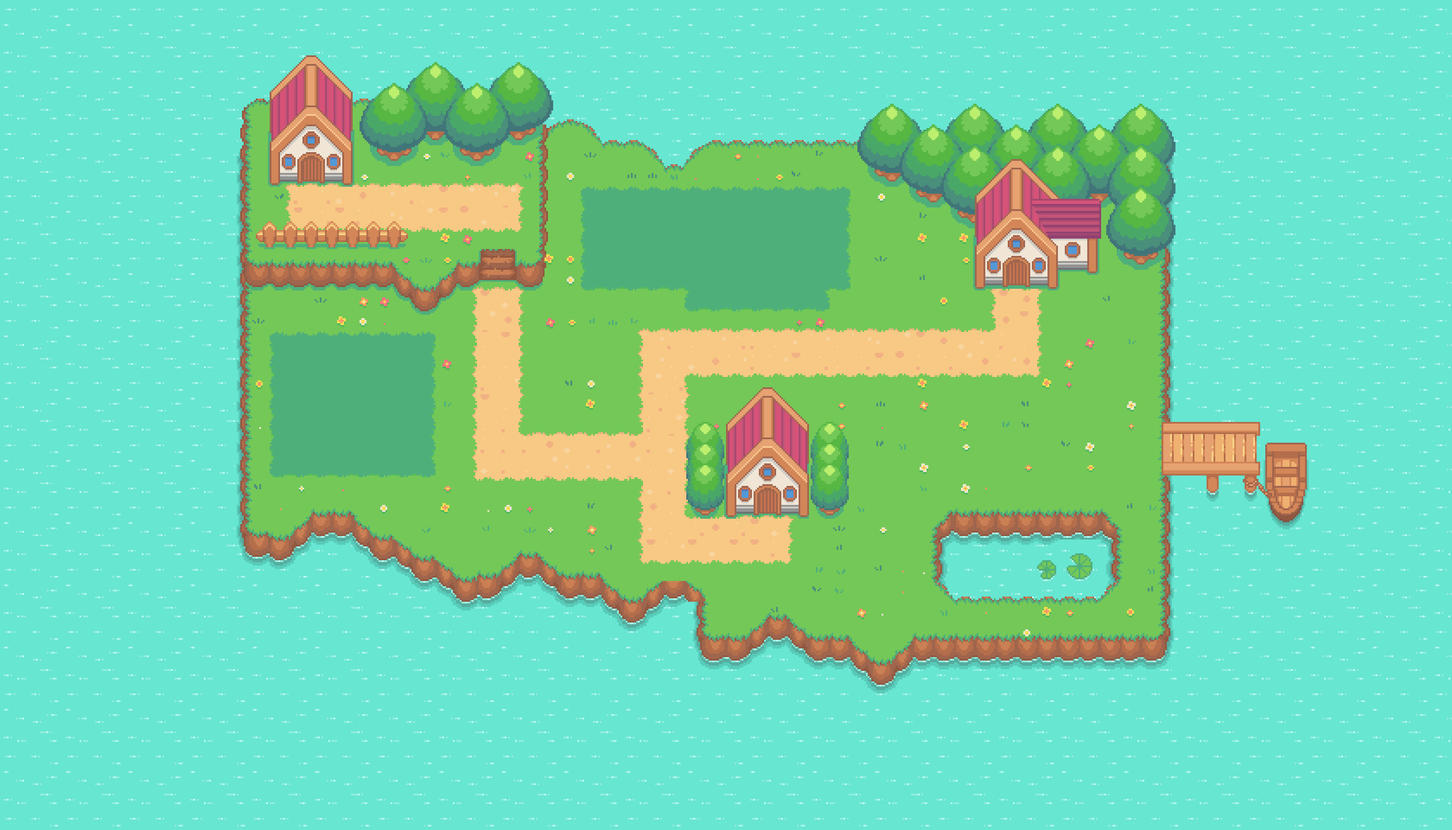
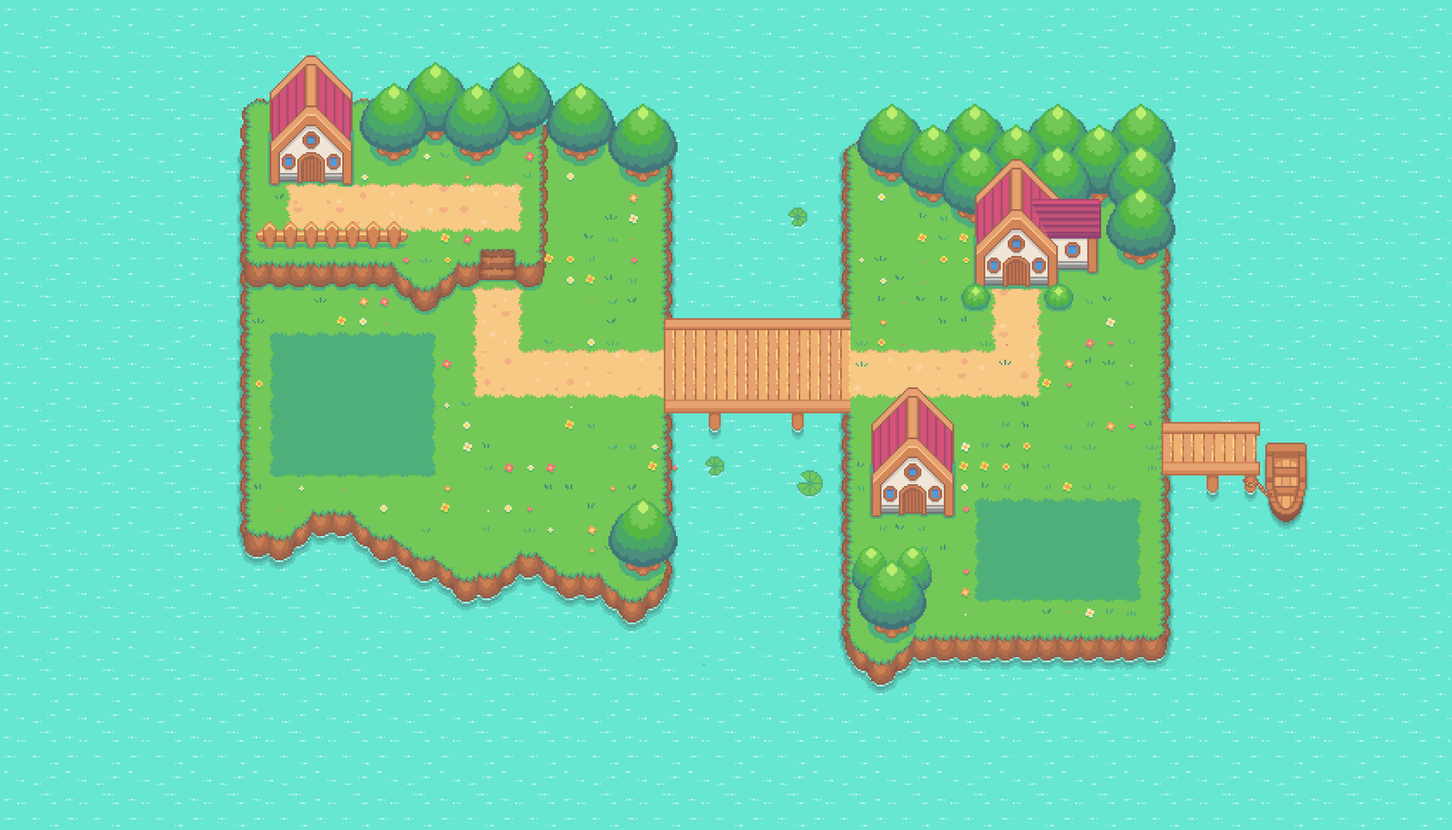
edited map, added battle zone and overlapping area

Changed region(s): [[0.3125, 0.0938, 0.8125, 0.8125], [0.7188, 0.3438, 0.75, 0.375]]

diff --git a/data/collisions.js b/data/collisions.js
@@ -2,35 +2,35 @@ const collisions = [0, 0, 0, 0, 0, 0, 0, 0, 0, 0, 0, 0, 0, 0, 0, 0, 0, 0, 0, 0, 
     0, 0, 0, 0, 0, 0, 0, 0, 0, 0, 0, 0, 0, 0, 0, 0, 0, 0, 0, 0, 0, 0, 0, 0, 0, 0, 0, 0, 0, 0, 0, 0, 0, 0, 0, 0, 0, 0, 0, 0, 0, 0, 0, 0, 0, 0, 0, 0, 0, 0, 0, 0, 0, 0, 0, 0, 0, 0, 0, 0, 0, 0, 0, 0, 0, 0, 0, 0, 0, 0,
     0, 0, 0, 0, 0, 0, 0, 0, 0, 0, 0, 0, 0, 0, 0, 0, 0, 0, 0, 0, 0, 0, 0, 0, 0, 0, 0, 0, 0, 0, 0, 0, 0, 0, 0, 0, 0, 0, 0, 0, 0, 0, 0, 0, 0, 0, 0, 0, 0, 0, 0, 0, 0, 0, 0, 0, 0, 0, 0, 0, 0, 0, 0, 0, 0, 0, 0, 0, 0, 0,
     0, 0, 0, 0, 0, 0, 0, 0, 0, 0, 0, 0, 0, 0, 0, 0, 0, 0, 0, 0, 0, 0, 0, 0, 0, 0, 0, 0, 0, 0, 0, 0, 0, 0, 0, 0, 0, 0, 0, 0, 0, 0, 0, 0, 0, 0, 0, 0, 0, 0, 0, 0, 0, 0, 0, 0, 0, 0, 0, 0, 0, 0, 0, 0, 0, 0, 0, 0, 0, 0,
-    0, 0, 0, 0, 0, 0, 0, 0, 0, 0, 0, 0, 1025, 0, 0, 0, 0, 0, 0, 0, 0, 0, 0, 0, 0, 0, 0, 1025, 1025, 0, 0, 0, 0, 0, 0, 0, 0, 0, 0, 0, 0, 0, 0, 0, 0, 0, 0, 0, 0, 0, 0, 0, 0, 0, 0, 0, 0, 0, 0, 0, 0, 0, 0, 0, 0, 0, 0, 0, 0, 0,
-    0, 0, 0, 0, 0, 0, 0, 0, 0, 0, 0, 1025, 0, 1025, 0, 0, 0, 0, 0, 0, 1025, 1025, 0, 0, 1025, 1025, 1025, 0, 0, 1025, 1025, 1025, 0, 0, 1025, 1025, 1025, 1025, 1025, 1025, 1025, 1025, 0, 0, 0, 0, 0, 0, 0, 0, 0, 0, 0, 0, 0, 0, 0, 0, 0, 0, 0, 0, 0, 0, 0, 0, 0, 0, 0, 0,
-    0, 0, 0, 0, 0, 0, 0, 0, 0, 0, 0, 1025, 0, 1025, 0, 0, 0, 1025, 1025, 1025, 0, 0, 1025, 1025, 0, 0, 1025, 0, 0, 0, 0, 1025, 1025, 1025, 0, 0, 0, 0, 0, 0, 0, 0, 1025, 0, 0, 0, 0, 0, 0, 0, 0, 0, 0, 0, 0, 0, 0, 0, 0, 0, 0, 0, 0, 0, 0, 0, 0, 0, 0, 0,
-    0, 0, 0, 0, 0, 0, 0, 0, 0, 0, 0, 1025, 0, 1025, 1025, 1025, 1025, 0, 0, 0, 0, 0, 0, 0, 0, 0, 1025, 0, 0, 0, 0, 0, 1025, 0, 0, 0, 0, 0, 0, 0, 0, 0, 1025, 1025, 0, 0, 0, 0, 0, 0, 0, 0, 0, 0, 0, 0, 0, 0, 0, 0, 0, 0, 0, 0, 0, 0, 0, 0, 0, 0,
-    0, 0, 0, 0, 0, 0, 0, 0, 0, 0, 0, 1025, 0, 0, 0, 0, 0, 0, 0, 0, 0, 0, 0, 0, 0, 0, 1025, 0, 0, 0, 0, 0, 0, 0, 0, 0, 0, 0, 0, 0, 0, 0, 0, 0, 1025, 1025, 0, 0, 0, 0, 0, 0, 0, 0, 0, 0, 0, 0, 0, 0, 0, 0, 0, 0, 0, 0, 0, 0, 0, 0,
-    0, 0, 0, 0, 0, 0, 0, 0, 0, 0, 0, 1025, 0, 0, 0, 0, 0, 0, 0, 0, 0, 0, 0, 0, 0, 0, 1025, 0, 0, 0, 0, 0, 0, 0, 0, 0, 0, 0, 0, 0, 0, 0, 0, 0, 0, 0, 1025, 0, 0, 0, 0, 0, 0, 0, 0, 0, 0, 0, 0, 0, 0, 0, 0, 0, 0, 0, 0, 0, 0, 0,
-    0, 0, 0, 0, 0, 0, 0, 0, 0, 0, 0, 1025, 0, 0, 0, 0, 0, 0, 0, 0, 0, 0, 0, 0, 0, 0, 1025, 0, 0, 0, 0, 0, 0, 0, 0, 0, 0, 0, 0, 0, 0, 0, 0, 0, 0, 0, 0, 1025, 0, 0, 0, 0, 0, 0, 0, 0, 0, 0, 0, 0, 0, 0, 0, 0, 0, 0, 0, 0, 0, 0,
-    0, 0, 0, 0, 0, 0, 0, 0, 0, 0, 0, 0, 0, 0, 0, 0, 0, 0, 0, 0, 0, 0, 0, 0, 0, 0, 1025, 0, 0, 0, 0, 0, 0, 0, 0, 0, 0, 0, 0, 0, 0, 0, 0, 0, 0, 0, 0, 1025, 0, 0, 0, 1025, 1025, 1025, 1025, 1025, 0, 0, 0, 0, 0, 0, 0, 0, 0, 0, 0, 0, 0, 0,
-    0, 0, 0, 0, 0, 0, 0, 0, 0, 0, 0, 0, 1025, 1025, 1025, 1025, 1025, 1025, 1025, 0, 0, 0, 0, 0, 0, 0, 1025, 0, 0, 0, 0, 0, 0, 0, 0, 0, 0, 0, 0, 0, 0, 0, 0, 0, 0, 0, 0, 1025, 1025, 1025, 1025, 0, 0, 0, 0, 0, 1025, 0, 0, 0, 0, 0, 0, 0, 0, 0, 0, 0, 0, 0,
-    0, 0, 0, 0, 0, 0, 0, 0, 0, 0, 0, 1025, 0, 0, 0, 0, 0, 0, 0, 1025, 1025, 1025, 1025, 0, 0, 1025, 0, 0, 0, 0, 0, 0, 0, 0, 0, 0, 0, 0, 0, 0, 0, 0, 0, 0, 0, 0, 0, 0, 0, 0, 0, 0, 0, 0, 0, 0, 1025, 0, 0, 0, 0, 0, 0, 0, 0, 0, 0, 0, 0, 0,
-    0, 0, 0, 0, 0, 0, 0, 0, 0, 0, 0, 1025, 0, 0, 0, 0, 0, 0, 0, 0, 0, 0, 0, 0, 0, 0, 0, 0, 0, 0, 0, 0, 0, 0, 0, 0, 0, 0, 0, 0, 0, 0, 0, 0, 0, 0, 0, 0, 0, 0, 0, 0, 0, 0, 0, 0, 1025, 0, 0, 0, 0, 0, 0, 0, 0, 0, 0, 0, 0, 0,
-    0, 0, 0, 0, 0, 0, 0, 0, 0, 0, 0, 1025, 0, 0, 0, 0, 0, 0, 0, 0, 0, 0, 0, 0, 0, 0, 0, 0, 0, 0, 0, 0, 0, 0, 0, 0, 0, 0, 0, 0, 0, 0, 0, 0, 0, 0, 0, 0, 0, 0, 0, 0, 0, 0, 0, 0, 1025, 0, 0, 0, 0, 0, 0, 0, 0, 0, 0, 0, 0, 0,
-    0, 0, 0, 0, 0, 0, 0, 0, 0, 0, 0, 1025, 0, 0, 0, 0, 0, 0, 0, 0, 0, 0, 0, 0, 0, 0, 0, 0, 0, 0, 0, 0, 0, 0, 0, 0, 0, 0, 0, 0, 0, 0, 0, 0, 0, 0, 0, 0, 0, 0, 0, 0, 0, 0, 0, 0, 1025, 0, 0, 0, 0, 0, 0, 0, 0, 0, 0, 0, 0, 0,
+    0, 0, 0, 0, 0, 0, 0, 0, 0, 0, 0, 0, 1025, 0, 0, 0, 0, 0, 0, 0, 0, 0, 0, 0, 0, 0, 0, 0, 0, 0, 0, 0, 0, 0, 0, 0, 0, 0, 0, 0, 0, 0, 0, 0, 0, 0, 0, 0, 0, 0, 0, 0, 0, 0, 0, 0, 0, 0, 0, 0, 0, 0, 0, 0, 0, 0, 0, 0, 0, 0,
+    0, 0, 0, 0, 0, 0, 0, 0, 0, 0, 0, 1025, 0, 1025, 0, 0, 0, 0, 0, 0, 1025, 1025, 0, 0, 1025, 1025, 1025, 0, 0, 0, 0, 0, 0, 0, 0, 0, 0, 0, 0, 0, 0, 0, 0, 0, 0, 0, 0, 0, 0, 0, 0, 0, 0, 0, 0, 0, 0, 0, 0, 0, 0, 0, 0, 0, 0, 0, 0, 0, 0, 0,
+    0, 0, 0, 0, 0, 0, 0, 0, 0, 0, 0, 1025, 0, 1025, 0, 0, 0, 1025, 1025, 1025, 0, 0, 1025, 1025, 0, 0, 1025, 1025, 1025, 1025, 0, 0, 0, 0, 0, 0, 0, 0, 0, 0, 0, 1025, 1025, 0, 0, 0, 0, 0, 0, 0, 0, 0, 0, 0, 0, 0, 0, 0, 0, 0, 0, 0, 0, 0, 0, 0, 0, 0, 0, 0,
+    0, 0, 0, 0, 0, 0, 0, 0, 0, 0, 0, 1025, 0, 1025, 1025, 1025, 1025, 0, 0, 0, 0, 0, 0, 0, 0, 0, 1025, 0, 0, 0, 1025, 1025, 1025, 0, 0, 0, 0, 0, 0, 0, 1025, 0, 1025, 1025, 0, 0, 0, 0, 0, 0, 0, 0, 0, 0, 0, 0, 0, 0, 0, 0, 0, 0, 0, 0, 0, 0, 0, 0, 0, 0,
+    0, 0, 0, 0, 0, 0, 0, 0, 0, 0, 0, 1025, 0, 0, 0, 0, 0, 0, 0, 0, 0, 0, 0, 0, 0, 0, 1025, 0, 0, 0, 0, 0, 1025, 0, 0, 0, 0, 0, 0, 0, 1025, 0, 0, 0, 1025, 1025, 0, 0, 0, 0, 0, 0, 0, 0, 0, 0, 0, 0, 0, 0, 0, 0, 0, 0, 0, 0, 0, 0, 0, 0,
+    0, 0, 0, 0, 0, 0, 0, 0, 0, 0, 0, 1025, 0, 0, 0, 0, 0, 0, 0, 0, 0, 0, 0, 0, 0, 0, 1025, 0, 0, 0, 0, 0, 1025, 0, 0, 0, 0, 0, 0, 0, 1025, 0, 0, 0, 0, 0, 1025, 0, 0, 0, 0, 0, 0, 0, 0, 0, 0, 0, 0, 0, 0, 0, 0, 0, 0, 0, 0, 0, 0, 0,
+    0, 0, 0, 0, 0, 0, 0, 0, 0, 0, 0, 1025, 0, 0, 0, 0, 0, 0, 0, 0, 0, 0, 0, 0, 0, 0, 1025, 0, 0, 0, 0, 0, 1025, 0, 0, 0, 0, 0, 0, 0, 1025, 0, 0, 0, 0, 0, 0, 1025, 0, 0, 0, 0, 0, 0, 0, 0, 0, 0, 0, 0, 0, 0, 0, 0, 0, 0, 0, 0, 0, 0,
+    0, 0, 0, 0, 0, 0, 0, 0, 0, 0, 0, 0, 0, 0, 0, 0, 0, 0, 0, 0, 0, 0, 0, 0, 0, 0, 1025, 0, 0, 0, 0, 0, 1025, 0, 0, 0, 0, 0, 0, 0, 1025, 0, 0, 0, 0, 0, 0, 1025, 0, 0, 0, 1025, 1025, 1025, 1025, 1025, 0, 0, 0, 0, 0, 0, 0, 0, 0, 0, 0, 0, 0, 0,
+    0, 0, 0, 0, 0, 0, 0, 0, 0, 0, 0, 0, 1025, 1025, 1025, 1025, 1025, 1025, 1025, 0, 0, 0, 0, 0, 0, 0, 1025, 0, 0, 0, 0, 0, 1025, 0, 0, 0, 0, 0, 0, 0, 1025, 0, 0, 0, 0, 0, 0, 1025, 1025, 1025, 1025, 0, 0, 0, 0, 0, 1025, 0, 0, 0, 0, 0, 0, 0, 0, 0, 0, 0, 0, 0,
+    0, 0, 0, 0, 0, 0, 0, 0, 0, 0, 0, 1025, 0, 0, 0, 0, 0, 0, 0, 1025, 1025, 1025, 1025, 0, 0, 1025, 0, 0, 0, 0, 0, 0, 1025, 0, 0, 0, 0, 0, 0, 0, 1025, 0, 0, 0, 0, 0, 0, 0, 0, 0, 0, 0, 0, 0, 0, 0, 1025, 0, 0, 0, 0, 0, 0, 0, 0, 0, 0, 0, 0, 0,
+    0, 0, 0, 0, 0, 0, 0, 0, 0, 0, 0, 1025, 0, 0, 0, 0, 0, 0, 0, 0, 0, 0, 0, 0, 0, 0, 0, 0, 0, 0, 0, 0, 1025, 1025, 1025, 1025, 1025, 1025, 1025, 1025, 1025, 0, 0, 0, 0, 0, 1025, 1025, 0, 0, 1025, 1025, 0, 0, 0, 0, 1025, 0, 0, 0, 0, 0, 0, 0, 0, 0, 0, 0, 0, 0,
+    0, 0, 0, 0, 0, 0, 0, 0, 0, 0, 0, 1025, 0, 0, 0, 0, 0, 0, 0, 0, 0, 0, 0, 0, 0, 0, 0, 0, 0, 0, 0, 0, 883, 883, 883, 883, 883, 883, 883, 883, 883, 0, 0, 0, 0, 0, 0, 0, 0, 0, 0, 0, 0, 0, 0, 0, 1025, 0, 0, 0, 0, 0, 0, 0, 0, 0, 0, 0, 0, 0,
+    0, 0, 0, 0, 0, 0, 0, 0, 0, 0, 0, 1025, 0, 0, 0, 0, 0, 0, 0, 0, 0, 0, 0, 0, 0, 0, 0, 0, 0, 0, 0, 0, 883, 883, 883, 883, 883, 883, 883, 883, 883, 0, 0, 0, 0, 0, 0, 0, 0, 0, 0, 0, 0, 0, 0, 0, 1025, 0, 0, 0, 0, 0, 0, 0, 0, 0, 0, 0, 0, 0,
     0, 0, 0, 0, 0, 0, 0, 0, 0, 0, 0, 1025, 0, 0, 0, 0, 0, 0, 0, 0, 0, 0, 0, 0, 0, 0, 0, 0, 0, 0, 0, 0, 0, 0, 0, 0, 0, 0, 0, 0, 0, 0, 0, 0, 0, 0, 0, 0, 0, 0, 0, 0, 0, 0, 0, 0, 1025, 0, 0, 0, 0, 0, 0, 0, 0, 0, 0, 0, 0, 0,
     0, 0, 0, 0, 0, 0, 0, 0, 0, 0, 0, 1025, 0, 0, 0, 0, 0, 0, 0, 0, 0, 0, 0, 0, 0, 0, 0, 0, 0, 0, 0, 0, 0, 0, 0, 0, 0, 0, 0, 0, 0, 0, 0, 0, 0, 0, 0, 0, 0, 0, 0, 0, 0, 0, 0, 0, 1025, 0, 0, 0, 0, 0, 0, 0, 0, 0, 0, 0, 0, 0,
     0, 0, 0, 0, 0, 0, 0, 0, 0, 0, 0, 1025, 0, 0, 0, 0, 0, 0, 0, 0, 0, 0, 0, 0, 0, 0, 0, 0, 0, 0, 0, 0, 0, 0, 0, 0, 0, 0, 0, 0, 0, 0, 0, 0, 0, 0, 0, 0, 0, 0, 0, 0, 0, 0, 0, 0, 1025, 1025, 1025, 1025, 1025, 0, 0, 0, 0, 0, 0, 0, 0, 0,
-    0, 0, 0, 0, 0, 0, 0, 0, 0, 0, 0, 1025, 0, 0, 0, 0, 0, 0, 0, 0, 0, 0, 0, 0, 0, 0, 0, 0, 0, 0, 0, 0, 0, 0, 0, 1025, 1025, 1025, 1025, 0, 0, 0, 0, 0, 0, 0, 0, 0, 0, 0, 0, 0, 0, 0, 0, 0, 0, 0, 0, 0, 0, 1025, 0, 0, 0, 0, 0, 0, 0, 0,
-    0, 0, 0, 0, 0, 0, 0, 0, 0, 0, 0, 1025, 0, 0, 0, 0, 0, 0, 0, 0, 0, 0, 0, 0, 0, 0, 0, 0, 0, 0, 0, 0, 0, 1025, 1025, 0, 0, 0, 0, 1025, 1025, 0, 0, 0, 0, 0, 0, 0, 0, 0, 0, 0, 0, 0, 0, 0, 0, 0, 0, 0, 0, 1025, 0, 0, 0, 0, 0, 0, 0, 0,
-    0, 0, 0, 0, 0, 0, 0, 0, 0, 0, 0, 1025, 0, 0, 0, 0, 0, 0, 0, 0, 0, 0, 0, 0, 0, 0, 0, 0, 0, 0, 0, 0, 0, 1025, 0, 0, 0, 0, 0, 0, 1025, 0, 0, 0, 0, 0, 0, 0, 0, 0, 0, 0, 0, 0, 0, 0, 0, 0, 0, 0, 0, 1025, 0, 0, 0, 0, 0, 0, 0, 0,
-    0, 0, 0, 0, 0, 0, 0, 0, 0, 0, 0, 1025, 0, 0, 0, 0, 0, 0, 0, 0, 0, 0, 0, 0, 0, 0, 0, 0, 0, 0, 0, 0, 0, 1025, 1025, 1025, 1025, 1025, 1025, 1025, 1025, 0, 0, 0, 0, 0, 0, 0, 0, 0, 0, 0, 0, 0, 0, 0, 1025, 1025, 1025, 1025, 1025, 0, 0, 0, 0, 0, 0, 0, 0, 0,
-    0, 0, 0, 0, 0, 0, 0, 0, 0, 0, 0, 1025, 0, 0, 0, 0, 0, 0, 0, 0, 0, 0, 0, 0, 0, 0, 0, 0, 0, 0, 0, 0, 0, 0, 0, 0, 0, 0, 0, 0, 0, 0, 0, 0, 0, 0, 0, 0, 0, 0, 0, 0, 0, 0, 0, 0, 1025, 0, 0, 0, 0, 0, 0, 0, 0, 0, 0, 0, 0, 0,
-    0, 0, 0, 0, 0, 0, 0, 0, 0, 0, 0, 1025, 0, 0, 1025, 1025, 1025, 1025, 0, 0, 0, 0, 0, 0, 0, 0, 0, 0, 0, 0, 0, 0, 0, 0, 0, 0, 0, 0, 0, 0, 0, 0, 0, 0, 0, 1025, 1025, 1025, 1025, 1025, 1025, 1025, 1025, 1025, 0, 0, 1025, 0, 0, 0, 0, 0, 0, 0, 0, 0, 0, 0, 0, 0,
-    0, 0, 0, 0, 0, 0, 0, 0, 0, 0, 0, 0, 1025, 1025, 0, 0, 0, 0, 1025, 0, 0, 0, 0, 0, 0, 0, 0, 0, 0, 0, 0, 0, 0, 0, 0, 0, 0, 0, 0, 0, 0, 0, 0, 0, 0, 1025, 0, 0, 0, 0, 0, 0, 0, 1025, 0, 0, 1025, 0, 0, 0, 0, 0, 0, 0, 0, 0, 0, 0, 0, 0,
-    0, 0, 0, 0, 0, 0, 0, 0, 0, 0, 0, 0, 0, 0, 0, 0, 0, 0, 0, 1025, 1025, 0, 0, 0, 1025, 1025, 1025, 0, 0, 0, 0, 0, 0, 0, 0, 0, 0, 0, 0, 0, 0, 0, 0, 0, 0, 1025, 1025, 1025, 1025, 1025, 1025, 1025, 1025, 1025, 0, 0, 1025, 0, 0, 0, 0, 0, 0, 0, 0, 0, 0, 0, 0, 0,
-    0, 0, 0, 0, 0, 0, 0, 0, 0, 0, 0, 0, 0, 0, 0, 0, 0, 0, 0, 0, 0, 1025, 1025, 1025, 0, 0, 0, 1025, 1025, 0, 0, 0, 1025, 0, 0, 0, 0, 0, 0, 0, 0, 0, 0, 0, 0, 0, 0, 0, 0, 0, 0, 0, 0, 0, 0, 0, 1025, 0, 0, 0, 0, 0, 0, 0, 0, 0, 0, 0, 0, 0,
-    0, 0, 0, 0, 0, 0, 0, 0, 0, 0, 0, 0, 0, 0, 0, 0, 0, 0, 0, 0, 0, 0, 0, 0, 0, 0, 0, 0, 0, 1025, 1025, 1025, 0, 1025, 0, 0, 0, 0, 0, 0, 0, 0, 0, 0, 0, 0, 0, 0, 0, 0, 0, 0, 0, 0, 0, 0, 1025, 0, 0, 0, 0, 0, 0, 0, 0, 0, 0, 0, 0, 0,
-    0, 0, 0, 0, 0, 0, 0, 0, 0, 0, 0, 0, 0, 0, 0, 0, 0, 0, 0, 0, 0, 0, 0, 0, 0, 0, 0, 0, 0, 0, 0, 0, 0, 1025, 0, 0, 0, 1025, 0, 0, 0, 0, 0, 0, 0, 0, 0, 0, 0, 0, 0, 0, 0, 0, 0, 0, 1025, 0, 0, 0, 0, 0, 0, 0, 0, 0, 0, 0, 0, 0,
-    0, 0, 0, 0, 0, 0, 0, 0, 0, 0, 0, 0, 0, 0, 0, 0, 0, 0, 0, 0, 0, 0, 0, 0, 0, 0, 0, 0, 0, 0, 0, 0, 0, 0, 1025, 1025, 1025, 0, 1025, 1025, 1025, 0, 0, 0, 1025, 1025, 1025, 1025, 1025, 1025, 1025, 1025, 1025, 1025, 1025, 1025, 0, 0, 0, 0, 0, 0, 0, 0, 0, 0, 0, 0, 0, 0,
-    0, 0, 0, 0, 0, 0, 0, 0, 0, 0, 0, 0, 0, 0, 0, 0, 0, 0, 0, 0, 0, 0, 0, 0, 0, 0, 0, 0, 0, 0, 0, 0, 0, 0, 0, 0, 0, 0, 0, 0, 0, 1025, 1025, 1025, 0, 0, 0, 0, 0, 0, 0, 0, 0, 0, 0, 0, 0, 0, 0, 0, 0, 0, 0, 0, 0, 0, 0, 0, 0, 0,
+    0, 0, 0, 0, 0, 0, 0, 0, 0, 0, 0, 1025, 0, 0, 0, 0, 0, 0, 0, 0, 0, 0, 0, 0, 0, 0, 0, 0, 0, 0, 0, 0, 1025, 1025, 1025, 1025, 1025, 1025, 1025, 1025, 1025, 0, 1025, 1025, 1025, 1025, 0, 0, 0, 0, 0, 0, 0, 0, 0, 0, 0, 0, 0, 0, 0, 1025, 0, 0, 0, 0, 0, 0, 0, 0,
+    0, 0, 0, 0, 0, 0, 0, 0, 0, 0, 0, 1025, 0, 0, 0, 0, 0, 0, 0, 0, 0, 0, 0, 0, 0, 0, 0, 0, 0, 0, 0, 0, 1025, 0, 0, 0, 0, 0, 0, 0, 1025, 0, 1025, 0, 0, 1025, 0, 0, 0, 0, 0, 0, 0, 0, 0, 0, 0, 0, 0, 0, 0, 1025, 0, 0, 0, 0, 0, 0, 0, 0,
+    0, 0, 0, 0, 0, 0, 0, 0, 0, 0, 0, 1025, 0, 0, 0, 0, 0, 0, 0, 0, 0, 0, 0, 0, 0, 0, 0, 0, 0, 0, 0, 0, 1025, 0, 0, 0, 0, 0, 0, 0, 1025, 0, 1025, 0, 0, 1025, 0, 0, 0, 0, 0, 0, 0, 0, 0, 0, 0, 0, 0, 0, 0, 1025, 0, 0, 0, 0, 0, 0, 0, 0,
+    0, 0, 0, 0, 0, 0, 0, 0, 0, 0, 0, 1025, 0, 0, 0, 0, 0, 0, 0, 0, 0, 0, 0, 0, 0, 0, 0, 0, 0, 0, 0, 0, 1025, 0, 0, 0, 0, 0, 0, 0, 1025, 0, 1025, 1025, 1025, 1025, 0, 0, 0, 0, 0, 0, 0, 0, 0, 0, 1025, 1025, 1025, 1025, 1025, 0, 0, 0, 0, 0, 0, 0, 0, 0,
+    0, 0, 0, 0, 0, 0, 0, 0, 0, 0, 0, 1025, 0, 0, 0, 0, 0, 0, 0, 0, 0, 0, 0, 0, 0, 0, 0, 0, 0, 0, 0, 0, 1025, 0, 0, 0, 0, 0, 0, 0, 1025, 0, 0, 0, 0, 0, 0, 0, 0, 0, 0, 0, 0, 0, 0, 0, 1025, 0, 0, 0, 0, 0, 0, 0, 0, 0, 0, 0, 0, 0,
+    0, 0, 0, 0, 0, 0, 0, 0, 0, 0, 0, 1025, 0, 0, 1025, 1025, 1025, 1025, 0, 0, 0, 0, 0, 0, 0, 0, 0, 0, 0, 0, 1025, 1025, 0, 0, 0, 0, 0, 0, 0, 0, 1025, 0, 0, 0, 0, 0, 0, 0, 0, 0, 0, 0, 0, 0, 0, 0, 1025, 0, 0, 0, 0, 0, 0, 0, 0, 0, 0, 0, 0, 0,
+    0, 0, 0, 0, 0, 0, 0, 0, 0, 0, 0, 0, 1025, 1025, 0, 0, 0, 0, 1025, 0, 0, 0, 0, 0, 0, 0, 0, 0, 0, 0, 1025, 0, 0, 0, 0, 0, 0, 0, 0, 0, 1025, 0, 0, 0, 0, 0, 0, 0, 0, 0, 0, 0, 0, 0, 0, 0, 1025, 0, 0, 0, 0, 0, 0, 0, 0, 0, 0, 0, 0, 0,
+    0, 0, 0, 0, 0, 0, 0, 0, 0, 0, 0, 0, 0, 0, 0, 0, 0, 0, 0, 1025, 1025, 0, 0, 0, 1025, 1025, 1025, 0, 0, 0, 1025, 0, 0, 0, 0, 0, 0, 0, 0, 0, 0, 1025, 1025, 1025, 1025, 0, 0, 0, 0, 0, 0, 0, 0, 0, 0, 0, 1025, 0, 0, 0, 0, 0, 0, 0, 0, 0, 0, 0, 0, 0,
+    0, 0, 0, 0, 0, 0, 0, 0, 0, 0, 0, 0, 0, 0, 0, 0, 0, 0, 0, 0, 0, 1025, 1025, 1025, 0, 0, 0, 1025, 1025, 1025, 0, 0, 0, 0, 0, 0, 0, 0, 0, 0, 0, 0, 0, 1025, 0, 0, 0, 0, 0, 0, 0, 0, 0, 0, 0, 0, 1025, 0, 0, 0, 0, 0, 0, 0, 0, 0, 0, 0, 0, 0,
+    0, 0, 0, 0, 0, 0, 0, 0, 0, 0, 0, 0, 0, 0, 0, 0, 0, 0, 0, 0, 0, 0, 0, 0, 0, 0, 0, 0, 0, 0, 0, 0, 0, 0, 0, 0, 0, 0, 0, 0, 0, 0, 0, 1025, 0, 0, 0, 0, 0, 0, 0, 0, 0, 0, 0, 0, 1025, 0, 0, 0, 0, 0, 0, 0, 0, 0, 0, 0, 0, 0,
+    0, 0, 0, 0, 0, 0, 0, 0, 0, 0, 0, 0, 0, 0, 0, 0, 0, 0, 0, 0, 0, 0, 0, 0, 0, 0, 0, 0, 0, 0, 0, 0, 0, 0, 0, 0, 0, 0, 0, 0, 0, 0, 0, 1025, 0, 0, 0, 0, 0, 0, 0, 0, 0, 0, 0, 0, 1025, 0, 0, 0, 0, 0, 0, 0, 0, 0, 0, 0, 0, 0,
+    0, 0, 0, 0, 0, 0, 0, 0, 0, 0, 0, 0, 0, 0, 0, 0, 0, 0, 0, 0, 0, 0, 0, 0, 0, 0, 0, 0, 0, 0, 0, 0, 0, 0, 0, 0, 0, 0, 0, 0, 0, 0, 0, 0, 1025, 1025, 1025, 1025, 1025, 1025, 1025, 1025, 1025, 1025, 1025, 1025, 0, 0, 0, 0, 0, 0, 0, 0, 0, 0, 0, 0, 0, 0,
+    0, 0, 0, 0, 0, 0, 0, 0, 0, 0, 0, 0, 0, 0, 0, 0, 0, 0, 0, 0, 0, 0, 0, 0, 0, 0, 0, 0, 0, 0, 0, 0, 0, 0, 0, 0, 0, 0, 0, 0, 0, 0, 0, 0, 0, 0, 0, 0, 0, 0, 0, 0, 0, 0, 0, 0, 0, 0, 0, 0, 0, 0, 0, 0, 0, 0, 0, 0, 0, 0,
     0, 0, 0, 0, 0, 0, 0, 0, 0, 0, 0, 0, 0, 0, 0, 0, 0, 0, 0, 0, 0, 0, 0, 0, 0, 0, 0, 0, 0, 0, 0, 0, 0, 0, 0, 0, 0, 0, 0, 0, 0, 0, 0, 0, 0, 0, 0, 0, 0, 0, 0, 0, 0, 0, 0, 0, 0, 0, 0, 0, 0, 0, 0, 0, 0, 0, 0, 0, 0, 0,
     0, 0, 0, 0, 0, 0, 0, 0, 0, 0, 0, 0, 0, 0, 0, 0, 0, 0, 0, 0, 0, 0, 0, 0, 0, 0, 0, 0, 0, 0, 0, 0, 0, 0, 0, 0, 0, 0, 0, 0, 0, 0, 0, 0, 0, 0, 0, 0, 0, 0, 0, 0, 0, 0, 0, 0, 0, 0, 0, 0, 0, 0, 0, 0, 0, 0, 0, 0, 0, 0,
     0, 0, 0, 0, 0, 0, 0, 0, 0, 0, 0, 0, 0, 0, 0, 0, 0, 0, 0, 0, 0, 0, 0, 0, 0, 0, 0, 0, 0, 0, 0, 0, 0, 0, 0, 0, 0, 0, 0, 0, 0, 0, 0, 0, 0, 0, 0, 0, 0, 0, 0, 0, 0, 0, 0, 0, 0, 0, 0, 0, 0, 0, 0, 0, 0, 0, 0, 0, 0, 0,

diff --git a/data/battleZones.js b/data/battleZones.js
@@ -1,4 +1,4 @@
-const battleZones = [0, 0, 0, 0, 0, 0, 0, 0, 0, 0, 0, 0, 0, 0, 0, 0, 0, 0, 0, 0, 0, 0, 0, 0, 0, 0, 0, 0, 0, 0, 0, 0, 0, 0, 0, 0, 0, 0, 0, 0, 0, 0, 0, 0, 0, 0, 0, 0, 0, 0, 0, 0, 0, 0, 0, 0, 0, 0, 0, 0, 0, 0, 0, 0, 0, 0, 0, 0, 0, 0,
+const battleZonesData = [0, 0, 0, 0, 0, 0, 0, 0, 0, 0, 0, 0, 0, 0, 0, 0, 0, 0, 0, 0, 0, 0, 0, 0, 0, 0, 0, 0, 0, 0, 0, 0, 0, 0, 0, 0, 0, 0, 0, 0, 0, 0, 0, 0, 0, 0, 0, 0, 0, 0, 0, 0, 0, 0, 0, 0, 0, 0, 0, 0, 0, 0, 0, 0, 0, 0, 0, 0, 0, 0,
     0, 0, 0, 0, 0, 0, 0, 0, 0, 0, 0, 0, 0, 0, 0, 0, 0, 0, 0, 0, 0, 0, 0, 0, 0, 0, 0, 0, 0, 0, 0, 0, 0, 0, 0, 0, 0, 0, 0, 0, 0, 0, 0, 0, 0, 0, 0, 0, 0, 0, 0, 0, 0, 0, 0, 0, 0, 0, 0, 0, 0, 0, 0, 0, 0, 0, 0, 0, 0, 0,
     0, 0, 0, 0, 0, 0, 0, 0, 0, 0, 0, 0, 0, 0, 0, 0, 0, 0, 0, 0, 0, 0, 0, 0, 0, 0, 0, 0, 0, 0, 0, 0, 0, 0, 0, 0, 0, 0, 0, 0, 0, 0, 0, 0, 0, 0, 0, 0, 0, 0, 0, 0, 0, 0, 0, 0, 0, 0, 0, 0, 0, 0, 0, 0, 0, 0, 0, 0, 0, 0,
     0, 0, 0, 0, 0, 0, 0, 0, 0, 0, 0, 0, 0, 0, 0, 0, 0, 0, 0, 0, 0, 0, 0, 0, 0, 0, 0, 0, 0, 0, 0, 0, 0, 0, 0, 0, 0, 0, 0, 0, 0, 0, 0, 0, 0, 0, 0, 0, 0, 0, 0, 0, 0, 0, 0, 0, 0, 0, 0, 0, 0, 0, 0, 0, 0, 0, 0, 0, 0, 0,
@@ -7,12 +7,12 @@ const battleZones = [0, 0, 0, 0, 0, 0, 0, 0, 0, 0, 0, 0, 0, 0, 0, 0, 0, 0, 0, 0,
     0, 0, 0, 0, 0, 0, 0, 0, 0, 0, 0, 0, 0, 0, 0, 0, 0, 0, 0, 0, 0, 0, 0, 0, 0, 0, 0, 0, 0, 0, 0, 0, 0, 0, 0, 0, 0, 0, 0, 0, 0, 0, 0, 0, 0, 0, 0, 0, 0, 0, 0, 0, 0, 0, 0, 0, 0, 0, 0, 0, 0, 0, 0, 0, 0, 0, 0, 0, 0, 0,
     0, 0, 0, 0, 0, 0, 0, 0, 0, 0, 0, 0, 0, 0, 0, 0, 0, 0, 0, 0, 0, 0, 0, 0, 0, 0, 0, 0, 0, 0, 0, 0, 0, 0, 0, 0, 0, 0, 0, 0, 0, 0, 0, 0, 0, 0, 0, 0, 0, 0, 0, 0, 0, 0, 0, 0, 0, 0, 0, 0, 0, 0, 0, 0, 0, 0, 0, 0, 0, 0,
     0, 0, 0, 0, 0, 0, 0, 0, 0, 0, 0, 0, 0, 0, 0, 0, 0, 0, 0, 0, 0, 0, 0, 0, 0, 0, 0, 0, 0, 0, 0, 0, 0, 0, 0, 0, 0, 0, 0, 0, 0, 0, 0, 0, 0, 0, 0, 0, 0, 0, 0, 0, 0, 0, 0, 0, 0, 0, 0, 0, 0, 0, 0, 0, 0, 0, 0, 0, 0, 0,
-    0, 0, 0, 0, 0, 0, 0, 0, 0, 0, 0, 0, 0, 0, 0, 0, 0, 0, 0, 0, 0, 0, 0, 0, 0, 0, 0, 0, 1025, 1025, 1025, 1025, 1025, 1025, 1025, 1025, 1025, 1025, 1025, 1025, 1025, 0, 0, 0, 0, 0, 0, 0, 0, 0, 0, 0, 0, 0, 0, 0, 0, 0, 0, 0, 0, 0, 0, 0, 0, 0, 0, 0, 0, 0,
-    0, 0, 0, 0, 0, 0, 0, 0, 0, 0, 0, 0, 0, 0, 0, 0, 0, 0, 0, 0, 0, 0, 0, 0, 0, 0, 0, 0, 1025, 1025, 1025, 1025, 1025, 1025, 1025, 1025, 1025, 1025, 1025, 1025, 1025, 0, 0, 0, 0, 0, 0, 0, 0, 0, 0, 0, 0, 0, 0, 0, 0, 0, 0, 0, 0, 0, 0, 0, 0, 0, 0, 0, 0, 0,
-    0, 0, 0, 0, 0, 0, 0, 0, 0, 0, 0, 0, 0, 0, 0, 0, 0, 0, 0, 0, 0, 0, 0, 0, 0, 0, 0, 0, 1025, 1025, 1025, 1025, 1025, 1025, 1025, 1025, 1025, 1025, 1025, 1025, 1025, 0, 0, 0, 0, 0, 0, 0, 0, 0, 0, 0, 0, 0, 0, 0, 0, 0, 0, 0, 0, 0, 0, 0, 0, 0, 0, 0, 0, 0,
-    0, 0, 0, 0, 0, 0, 0, 0, 0, 0, 0, 0, 0, 0, 0, 0, 0, 0, 0, 0, 0, 0, 0, 0, 0, 0, 0, 0, 1025, 1025, 1025, 1025, 1025, 1025, 1025, 1025, 1025, 1025, 1025, 1025, 1025, 0, 0, 0, 0, 0, 0, 0, 0, 0, 0, 0, 0, 0, 0, 0, 0, 0, 0, 0, 0, 0, 0, 0, 0, 0, 0, 0, 0, 0,
-    0, 0, 0, 0, 0, 0, 0, 0, 0, 0, 0, 0, 0, 0, 0, 0, 0, 0, 0, 0, 0, 0, 0, 0, 0, 0, 0, 0, 1025, 1025, 1025, 1025, 1025, 1025, 1025, 1025, 1025, 1025, 1025, 1025, 1025, 0, 0, 0, 0, 0, 0, 0, 0, 0, 0, 0, 0, 0, 0, 0, 0, 0, 0, 0, 0, 0, 0, 0, 0, 0, 0, 0, 0, 0,
-    0, 0, 0, 0, 0, 0, 0, 0, 0, 0, 0, 0, 0, 0, 0, 0, 0, 0, 0, 0, 0, 0, 0, 0, 0, 0, 0, 0, 0, 0, 0, 0, 0, 1025, 1025, 1025, 1025, 1025, 1025, 1025, 0, 0, 0, 0, 0, 0, 0, 0, 0, 0, 0, 0, 0, 0, 0, 0, 0, 0, 0, 0, 0, 0, 0, 0, 0, 0, 0, 0, 0, 0,
+    0, 0, 0, 0, 0, 0, 0, 0, 0, 0, 0, 0, 0, 0, 0, 0, 0, 0, 0, 0, 0, 0, 0, 0, 0, 0, 0, 0, 0, 0, 0, 0, 0, 0, 0, 0, 0, 0, 0, 0, 0, 0, 0, 0, 0, 0, 0, 0, 0, 0, 0, 0, 0, 0, 0, 0, 0, 0, 0, 0, 0, 0, 0, 0, 0, 0, 0, 0, 0, 0,
+    0, 0, 0, 0, 0, 0, 0, 0, 0, 0, 0, 0, 0, 0, 0, 0, 0, 0, 0, 0, 0, 0, 0, 0, 0, 0, 0, 0, 0, 0, 0, 0, 0, 0, 0, 0, 0, 0, 0, 0, 0, 0, 0, 0, 0, 0, 0, 0, 0, 0, 0, 0, 0, 0, 0, 0, 0, 0, 0, 0, 0, 0, 0, 0, 0, 0, 0, 0, 0, 0,
+    0, 0, 0, 0, 0, 0, 0, 0, 0, 0, 0, 0, 0, 0, 0, 0, 0, 0, 0, 0, 0, 0, 0, 0, 0, 0, 0, 0, 0, 0, 0, 0, 0, 0, 0, 0, 0, 0, 0, 0, 0, 0, 0, 0, 0, 0, 0, 0, 0, 0, 0, 0, 0, 0, 0, 0, 0, 0, 0, 0, 0, 0, 0, 0, 0, 0, 0, 0, 0, 0,
+    0, 0, 0, 0, 0, 0, 0, 0, 0, 0, 0, 0, 0, 0, 0, 0, 0, 0, 0, 0, 0, 0, 0, 0, 0, 0, 0, 0, 0, 0, 0, 0, 0, 0, 0, 0, 0, 0, 0, 0, 0, 0, 0, 0, 0, 0, 0, 0, 0, 0, 0, 0, 0, 0, 0, 0, 0, 0, 0, 0, 0, 0, 0, 0, 0, 0, 0, 0, 0, 0,
+    0, 0, 0, 0, 0, 0, 0, 0, 0, 0, 0, 0, 0, 0, 0, 0, 0, 0, 0, 0, 0, 0, 0, 0, 0, 0, 0, 0, 0, 0, 0, 0, 0, 0, 0, 0, 0, 0, 0, 0, 0, 0, 0, 0, 0, 0, 0, 0, 0, 0, 0, 0, 0, 0, 0, 0, 0, 0, 0, 0, 0, 0, 0, 0, 0, 0, 0, 0, 0, 0,
+    0, 0, 0, 0, 0, 0, 0, 0, 0, 0, 0, 0, 0, 0, 0, 0, 0, 0, 0, 0, 0, 0, 0, 0, 0, 0, 0, 0, 0, 0, 0, 0, 0, 0, 0, 0, 0, 0, 0, 0, 0, 0, 0, 0, 0, 0, 0, 0, 0, 0, 0, 0, 0, 0, 0, 0, 0, 0, 0, 0, 0, 0, 0, 0, 0, 0, 0, 0, 0, 0,
     0, 0, 0, 0, 0, 0, 0, 0, 0, 0, 0, 0, 0, 0, 0, 0, 0, 0, 0, 0, 0, 0, 0, 0, 0, 0, 0, 0, 0, 0, 0, 0, 0, 0, 0, 0, 0, 0, 0, 0, 0, 0, 0, 0, 0, 0, 0, 0, 0, 0, 0, 0, 0, 0, 0, 0, 0, 0, 0, 0, 0, 0, 0, 0, 0, 0, 0, 0, 0, 0,
     0, 0, 0, 0, 0, 0, 0, 0, 0, 0, 0, 0, 0, 1025, 1025, 1025, 1025, 1025, 1025, 1025, 1025, 0, 0, 0, 0, 0, 0, 0, 0, 0, 0, 0, 0, 0, 0, 0, 0, 0, 0, 0, 0, 0, 0, 0, 0, 0, 0, 0, 0, 0, 0, 0, 0, 0, 0, 0, 0, 0, 0, 0, 0, 0, 0, 0, 0, 0, 0, 0, 0, 0,
     0, 0, 0, 0, 0, 0, 0, 0, 0, 0, 0, 0, 0, 1025, 1025, 1025, 1025, 1025, 1025, 1025, 1025, 0, 0, 0, 0, 0, 0, 0, 0, 0, 0, 0, 0, 0, 0, 0, 0, 0, 0, 0, 0, 0, 0, 0, 0, 0, 0, 0, 0, 0, 0, 0, 0, 0, 0, 0, 0, 0, 0, 0, 0, 0, 0, 0, 0, 0, 0, 0, 0, 0,
@@ -22,11 +22,11 @@ const battleZones = [0, 0, 0, 0, 0, 0, 0, 0, 0, 0, 0, 0, 0, 0, 0, 0, 0, 0, 0, 0,
     0, 0, 0, 0, 0, 0, 0, 0, 0, 0, 0, 0, 0, 1025, 1025, 1025, 1025, 1025, 1025, 1025, 1025, 0, 0, 0, 0, 0, 0, 0, 0, 0, 0, 0, 0, 0, 0, 0, 0, 0, 0, 0, 0, 0, 0, 0, 0, 0, 0, 0, 0, 0, 0, 0, 0, 0, 0, 0, 0, 0, 0, 0, 0, 0, 0, 0, 0, 0, 0, 0, 0, 0,
     0, 0, 0, 0, 0, 0, 0, 0, 0, 0, 0, 0, 0, 1025, 1025, 1025, 1025, 1025, 1025, 1025, 1025, 0, 0, 0, 0, 0, 0, 0, 0, 0, 0, 0, 0, 0, 0, 0, 0, 0, 0, 0, 0, 0, 0, 0, 0, 0, 0, 0, 0, 0, 0, 0, 0, 0, 0, 0, 0, 0, 0, 0, 0, 0, 0, 0, 0, 0, 0, 0, 0, 0,
     0, 0, 0, 0, 0, 0, 0, 0, 0, 0, 0, 0, 0, 0, 0, 0, 0, 0, 0, 0, 0, 0, 0, 0, 0, 0, 0, 0, 0, 0, 0, 0, 0, 0, 0, 0, 0, 0, 0, 0, 0, 0, 0, 0, 0, 0, 0, 0, 0, 0, 0, 0, 0, 0, 0, 0, 0, 0, 0, 0, 0, 0, 0, 0, 0, 0, 0, 0, 0, 0,
-    0, 0, 0, 0, 0, 0, 0, 0, 0, 0, 0, 0, 0, 0, 0, 0, 0, 0, 0, 0, 0, 0, 0, 0, 0, 0, 0, 0, 0, 0, 0, 0, 0, 0, 0, 0, 0, 0, 0, 0, 0, 0, 0, 0, 0, 0, 0, 0, 0, 0, 0, 0, 0, 0, 0, 0, 0, 0, 0, 0, 0, 0, 0, 0, 0, 0, 0, 0, 0, 0,
-    0, 0, 0, 0, 0, 0, 0, 0, 0, 0, 0, 0, 0, 0, 0, 0, 0, 0, 0, 0, 0, 0, 0, 0, 0, 0, 0, 0, 0, 0, 0, 0, 0, 0, 0, 0, 0, 0, 0, 0, 0, 0, 0, 0, 0, 0, 0, 0, 0, 0, 0, 0, 0, 0, 0, 0, 0, 0, 0, 0, 0, 0, 0, 0, 0, 0, 0, 0, 0, 0,
-    0, 0, 0, 0, 0, 0, 0, 0, 0, 0, 0, 0, 0, 0, 0, 0, 0, 0, 0, 0, 0, 0, 0, 0, 0, 0, 0, 0, 0, 0, 0, 0, 0, 0, 0, 0, 0, 0, 0, 0, 0, 0, 0, 0, 0, 0, 0, 0, 0, 0, 0, 0, 0, 0, 0, 0, 0, 0, 0, 0, 0, 0, 0, 0, 0, 0, 0, 0, 0, 0,
-    0, 0, 0, 0, 0, 0, 0, 0, 0, 0, 0, 0, 0, 0, 0, 0, 0, 0, 0, 0, 0, 0, 0, 0, 0, 0, 0, 0, 0, 0, 0, 0, 0, 0, 0, 0, 0, 0, 0, 0, 0, 0, 0, 0, 0, 0, 0, 0, 0, 0, 0, 0, 0, 0, 0, 0, 0, 0, 0, 0, 0, 0, 0, 0, 0, 0, 0, 0, 0, 0,
-    0, 0, 0, 0, 0, 0, 0, 0, 0, 0, 0, 0, 0, 0, 0, 0, 0, 0, 0, 0, 0, 0, 0, 0, 0, 0, 0, 0, 0, 0, 0, 0, 0, 0, 0, 0, 0, 0, 0, 0, 0, 0, 0, 0, 0, 0, 0, 0, 0, 0, 0, 0, 0, 0, 0, 0, 0, 0, 0, 0, 0, 0, 0, 0, 0, 0, 0, 0, 0, 0,
+    0, 0, 0, 0, 0, 0, 0, 0, 0, 0, 0, 0, 0, 0, 0, 0, 0, 0, 0, 0, 0, 0, 0, 0, 0, 0, 0, 0, 0, 0, 0, 0, 0, 0, 0, 0, 0, 0, 0, 0, 0, 0, 0, 0, 0, 0, 0, 1025, 1025, 1025, 1025, 1025, 1025, 1025, 1025, 0, 0, 0, 0, 0, 0, 0, 0, 0, 0, 0, 0, 0, 0, 0,
+    0, 0, 0, 0, 0, 0, 0, 0, 0, 0, 0, 0, 0, 0, 0, 0, 0, 0, 0, 0, 0, 0, 0, 0, 0, 0, 0, 0, 0, 0, 0, 0, 0, 0, 0, 0, 0, 0, 0, 0, 0, 0, 0, 0, 0, 0, 0, 1025, 1025, 1025, 1025, 1025, 1025, 1025, 1025, 0, 0, 0, 0, 0, 0, 0, 0, 0, 0, 0, 0, 0, 0, 0,
+    0, 0, 0, 0, 0, 0, 0, 0, 0, 0, 0, 0, 0, 0, 0, 0, 0, 0, 0, 0, 0, 0, 0, 0, 0, 0, 0, 0, 0, 0, 0, 0, 0, 0, 0, 0, 0, 0, 0, 0, 0, 0, 0, 0, 0, 0, 0, 1025, 1025, 1025, 1025, 1025, 1025, 1025, 1025, 0, 0, 0, 0, 0, 0, 0, 0, 0, 0, 0, 0, 0, 0, 0,
+    0, 0, 0, 0, 0, 0, 0, 0, 0, 0, 0, 0, 0, 0, 0, 0, 0, 0, 0, 0, 0, 0, 0, 0, 0, 0, 0, 0, 0, 0, 0, 0, 0, 0, 0, 0, 0, 0, 0, 0, 0, 0, 0, 0, 0, 0, 0, 1025, 1025, 1025, 1025, 1025, 1025, 1025, 1025, 0, 0, 0, 0, 0, 0, 0, 0, 0, 0, 0, 0, 0, 0, 0,
+    0, 0, 0, 0, 0, 0, 0, 0, 0, 0, 0, 0, 0, 0, 0, 0, 0, 0, 0, 0, 0, 0, 0, 0, 0, 0, 0, 0, 0, 0, 0, 0, 0, 0, 0, 0, 0, 0, 0, 0, 0, 0, 0, 0, 0, 0, 0, 1025, 1025, 1025, 1025, 1025, 1025, 1025, 1025, 0, 0, 0, 0, 0, 0, 0, 0, 0, 0, 0, 0, 0, 0, 0,
     0, 0, 0, 0, 0, 0, 0, 0, 0, 0, 0, 0, 0, 0, 0, 0, 0, 0, 0, 0, 0, 0, 0, 0, 0, 0, 0, 0, 0, 0, 0, 0, 0, 0, 0, 0, 0, 0, 0, 0, 0, 0, 0, 0, 0, 0, 0, 0, 0, 0, 0, 0, 0, 0, 0, 0, 0, 0, 0, 0, 0, 0, 0, 0, 0, 0, 0, 0, 0, 0,
     0, 0, 0, 0, 0, 0, 0, 0, 0, 0, 0, 0, 0, 0, 0, 0, 0, 0, 0, 0, 0, 0, 0, 0, 0, 0, 0, 0, 0, 0, 0, 0, 0, 0, 0, 0, 0, 0, 0, 0, 0, 0, 0, 0, 0, 0, 0, 0, 0, 0, 0, 0, 0, 0, 0, 0, 0, 0, 0, 0, 0, 0, 0, 0, 0, 0, 0, 0, 0, 0,
     0, 0, 0, 0, 0, 0, 0, 0, 0, 0, 0, 0, 0, 0, 0, 0, 0, 0, 0, 0, 0, 0, 0, 0, 0, 0, 0, 0, 0, 0, 0, 0, 0, 0, 0, 0, 0, 0, 0, 0, 0, 0, 0, 0, 0, 0, 0, 0, 0, 0, 0, 0, 0, 0, 0, 0, 0, 0, 0, 0, 0, 0, 0, 0, 0, 0, 0, 0, 0, 0,

diff --git a/index.js b/index.js
@@ -5,17 +5,15 @@ canvas.width = 1870
 canvas.height = 960
 
 const collisionsMap =[]
-
 for (let i = 0; i < collisions.length; i += 70){
     collisionsMap.push(collisions.slice(i, 70 + i))
 }
 
 const battleZonesMap =[]
-
-for (let i = 0; i < battleZones.length; i += 70){
-    battleZonesMap.push(battleZones.slice(i, 70 + i))
+for (let i = 0; i < battleZonesData.length; i += 70){
+    battleZonesMap.push(battleZonesData.slice(i, 70 + i))
 }
-console.log(battleZonesMap)
+
 const boundaries = []
 const offset = {
     x: -10,
@@ -33,7 +31,22 @@ collisionsMap.forEach((row, i) => {
     })
 })
 
-console.log(boundaries)
+const battleZones = []
+
+battleZonesMap.forEach((row, i) => {
+    row.forEach((symbol, j) =>{
+        if(symbol === 1025)
+        battleZones.push(new Boundary({position:{
+            x: j * Boundary.width + offset.x,
+            y: i * Boundary.height + offset.y
+        }
+    })
+    )
+    })
+})
+
+
+//CHARACTER IMAGES
 
 const image = new Image()
 image.src = './img/map.png'
@@ -70,7 +83,7 @@ const player = new Sprite({
     }
 })
 
-
+//MAP
 const background = new Sprite({
     position:{
         x: offset.x,
@@ -104,8 +117,10 @@ const keys = {
 
 
 
-const movables = [background, ...boundaries, foreground]
-//ANIMATE
+const movables = [background, ...boundaries, foreground, ...battleZones]
+
+//ANIMATE WALKING
+
 function rectangularCollision({rectangle1, rectangle2}){
 return(rectangle1.position.x + rectangle1.width >= rectangle2.position.x && 
     rectangle1.position.x <= rectangle2.position.x + rectangle2.width && 
@@ -115,13 +130,35 @@ return(rectangle1.position.x + rectangle1.width >= rectangle2.position.x &&
 function animate(){
     window.requestAnimationFrame(animate)
     background.draw()
-    boundaries.forEach(boundary =>{
+    boundaries.forEach((boundary) =>{
         boundary.draw()
-        
+    })
+    battleZones.forEach((battleZone) =>{
+        battleZone.draw()
     })
     player.draw()
     foreground.draw()
     
+if (keys.w.pressed || keys.a.pressed || keys.s.pressed || keys.d.pressed){
+    for(let i = 0; i < battleZones.length; i++){
+        const battleZone = battleZones[i]
+        const overlappingArea = (Math.min(player.position.x + player.width, battleZone.position.x + battleZone.width) - Math.max(player.position.x, battleZone.position.x)) *
+        (Math.min(player.position.y + player.height, battleZone.position.y + battleZone.height) - Math.max(player.position.y, battleZone.position.y))
+
+        if (
+            rectangularCollision({
+            rectangle1: player,
+            rectangle2: battleZone
+        }) && 
+        overlappingArea > (player.width * player.height) / 2 && Math.random() < 0.001
+    ){
+            console.log('battlezone')
+            
+            break
+        }
+    }
+}
+
 let moving = true
 player.moving = false
      if (keys.w.pressed && lastKey === 'w')  {
@@ -137,11 +174,12 @@ player.moving = false
                     y: boundary.position.y +1
                 }}
             })){
-                console.log('colliding')
+                
                 moving = false
                 break
             }
         }
+        
         if (moving)
         movables.forEach(movable =>{movable.position.y += 1})
     }
@@ -158,7 +196,7 @@ player.moving = false
                     y: boundary.position.y 
                 }}
             })){
-                console.log('colliding')
+                
                 moving = false
                 break
             }
@@ -178,7 +216,7 @@ player.moving = false
                     y: boundary.position.y -1
                 }}
             })){
-                console.log('colliding')
+                
                 moving = false
                 break
             }
@@ -198,7 +236,7 @@ player.moving = false
                     y: boundary.position.y +1
                 }}
             })){
-                console.log('colliding')
+                
                 moving = false
                 break
             }

diff --git a/classes.js b/classes.js
@@ -35,7 +35,7 @@ class Sprite {
     }
     }    
 }
-
+//COLLISION
 class Boundary {
     static width = 48
     static height = 48
@@ -45,7 +45,7 @@ class Boundary {
         this.height =48
     }
     draw(){
-    c.fillStyle = 'rgba(255, 0, 0, 0.0)'
+    c.fillStyle = 'rgba(255, 0, 0, 0.2)'
     c.fillRect(this.position.x, this.position.y, this.width, this.height)
     }
 }
